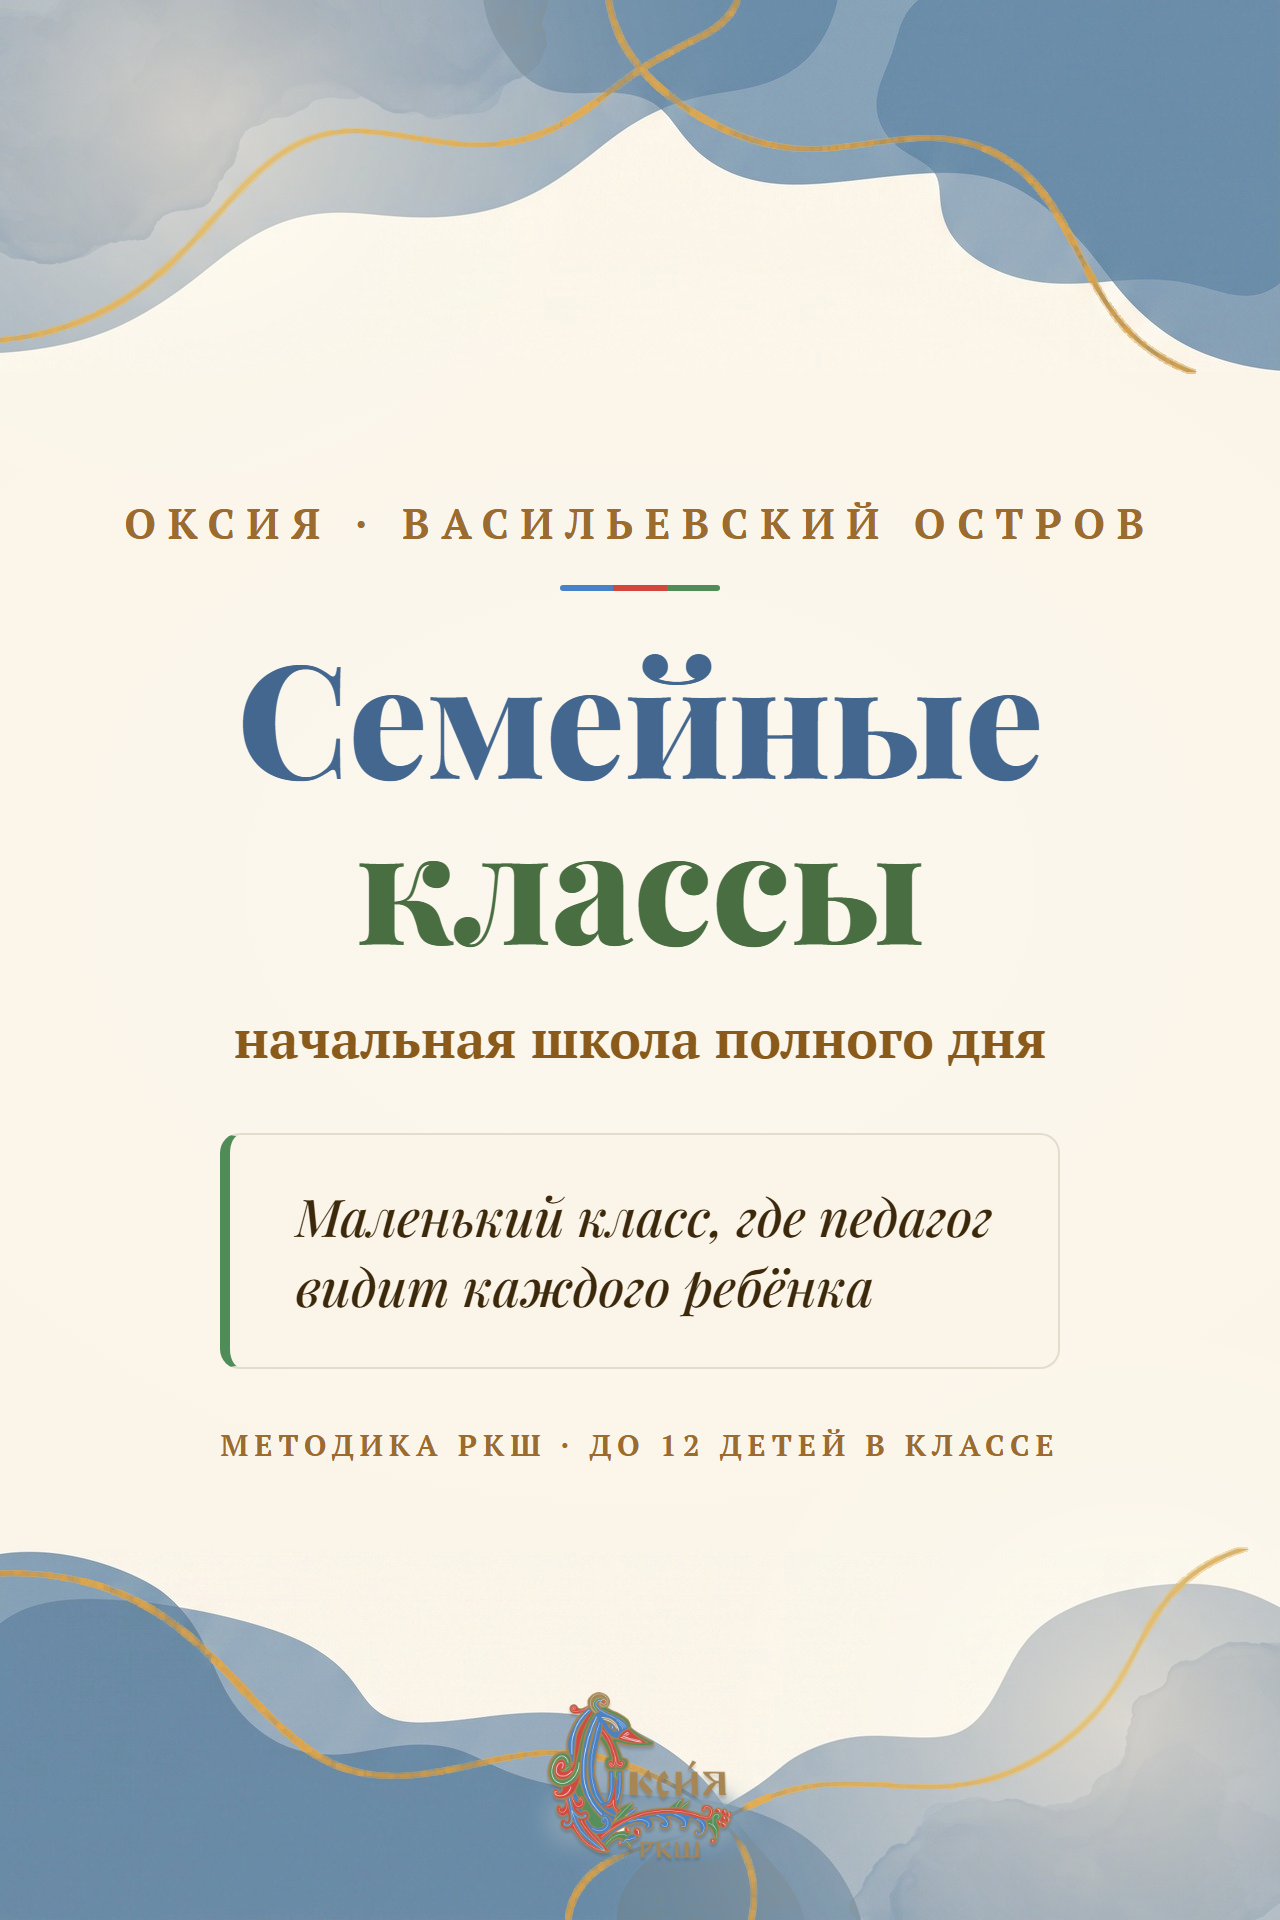
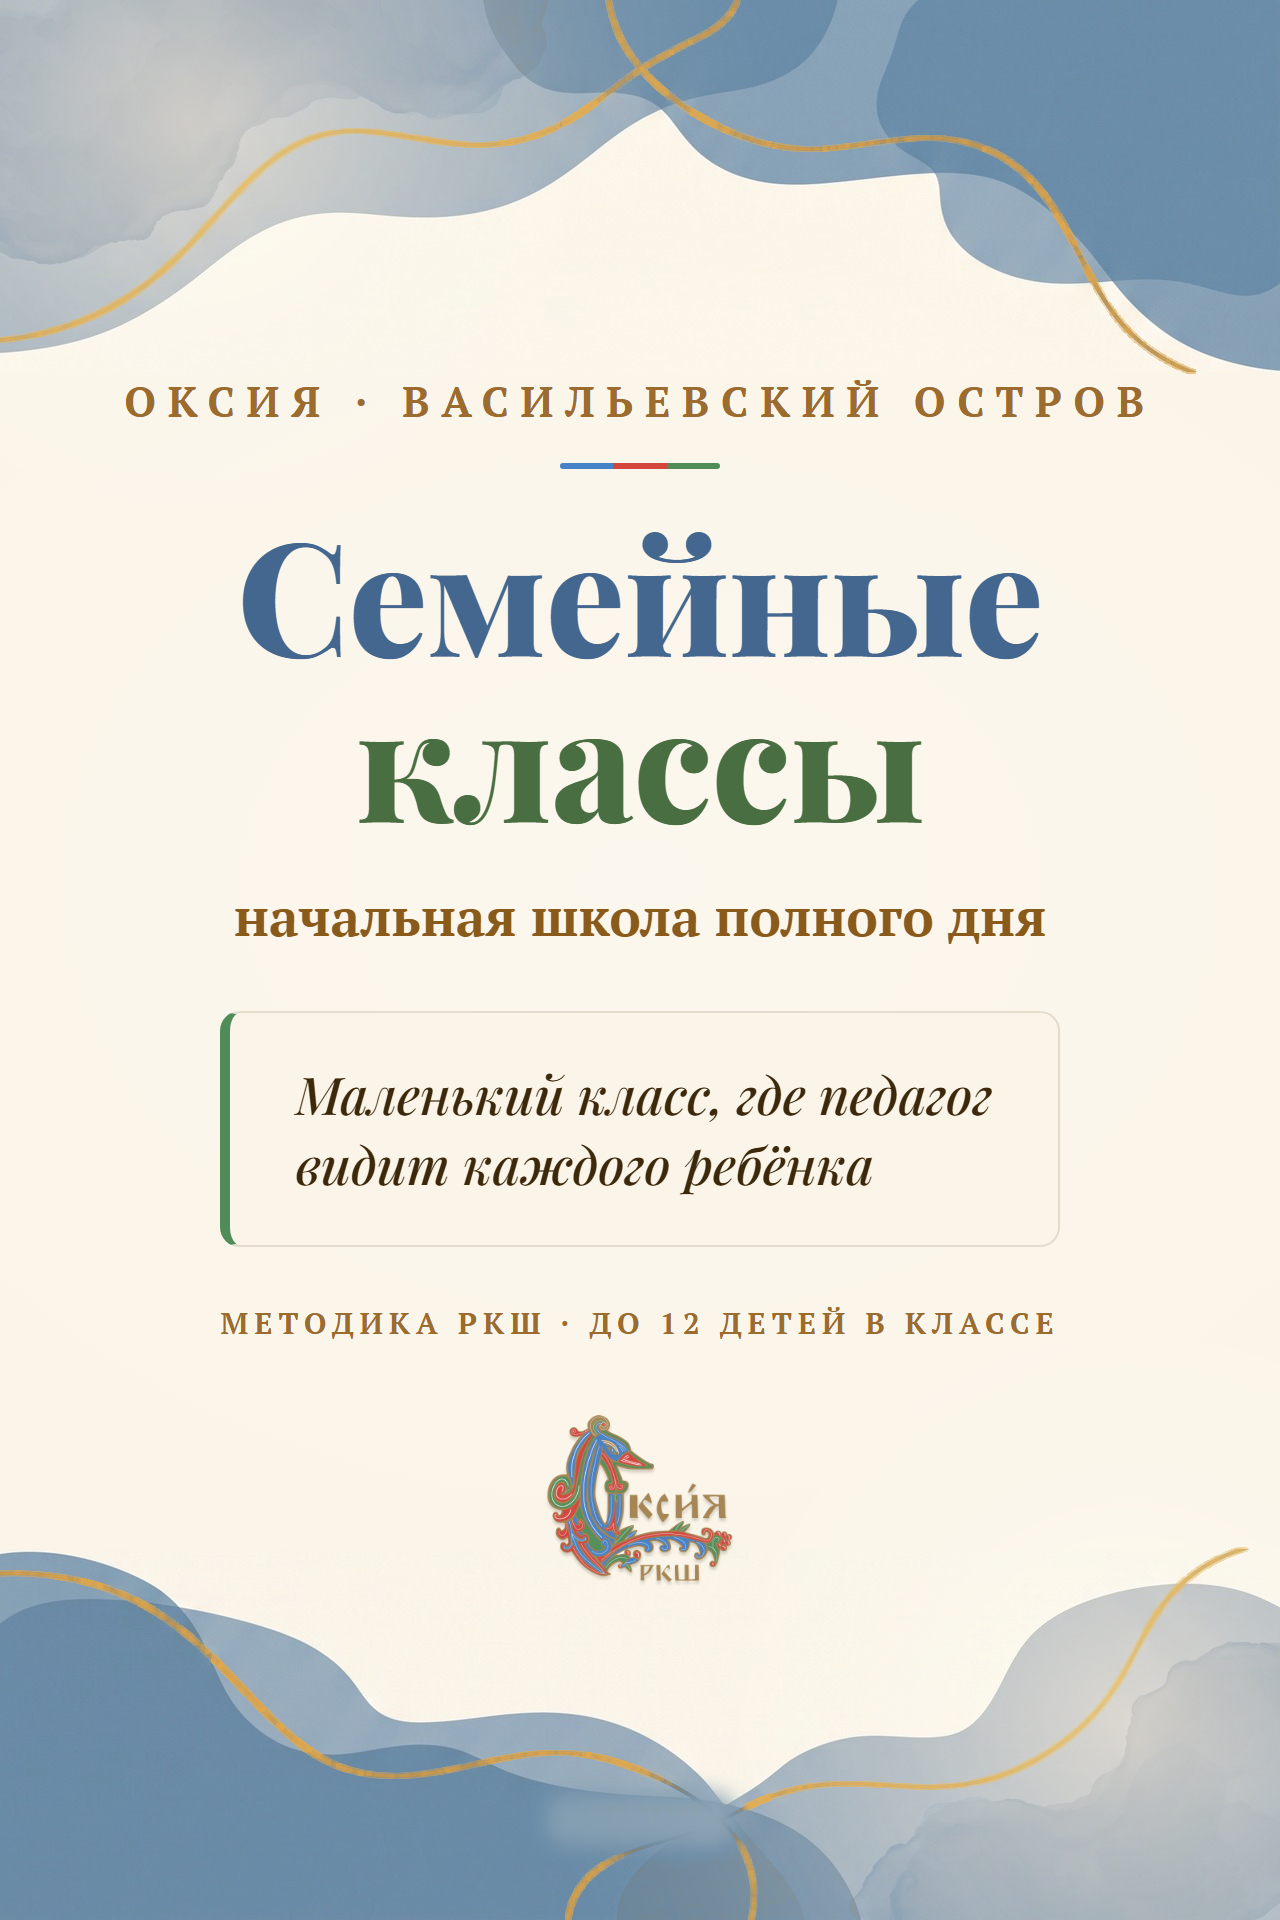
ОКСИЯ: центрировала цену в карточке товара, перенесла логотип истории с волн на чистый кремовый фон

diff --git a/story-preview/_build/story-sample-01.html b/story-preview/_build/story-sample-01.html
@@ -78,8 +78,7 @@
     color:var(--bronze-soft);
   }
 
-  .logowrap{ position:absolute; left:0; right:0; bottom:56px; display:flex;
-    align-items:center; justify-content:center; }
+  .logowrap{ margin-top:72px; display:flex; align-items:center; justify-content:center; }
   .logowrap img{ height:172px; width:auto; }
 </style>
 </head>
@@ -92,7 +91,7 @@
     <div class="sub">начальная школа полного дня</div>
     <div class="chip">Маленький класс, где педагог<br>видит каждого ребёнка</div>
     <div class="facts">методика РКШ · до 12 детей в классе</div>
+    <div class="logowrap"><img src="oksia-logo.png" alt="Оксия"></div>
   </div>
-  <div class="logowrap"><img src="oksia-logo.png" alt="Оксия"></div>
 </body>
 </html>

diff --git a/story-preview/_build/card-template.html b/story-preview/_build/card-template.html
@@ -36,11 +36,11 @@
 
   .row{display:flex;align-items:center;justify-content:space-between;margin-top:30px;}
 
-  .price{display:inline-flex;align-items:baseline;gap:10px;background:var(--red);
-    color:var(--cream);border-radius:16px;padding:18px 30px;
+  .price{display:inline-flex;align-items:center;gap:10px;background:var(--red);
+    color:var(--cream);border-radius:16px;padding:18px 30px;line-height:1;
     font-family:"Playfair Display",serif;font-weight:800;font-size:46px;}
   .price .per{font-family:"PT Serif",serif;font-weight:400;font-style:italic;font-size:26px;
-    color:rgba(251,245,233,.86);}
+    line-height:1;color:rgba(251,245,233,.86);position:relative;top:2px;}
 
   .logo{height:146px;width:auto;}
 </style>
